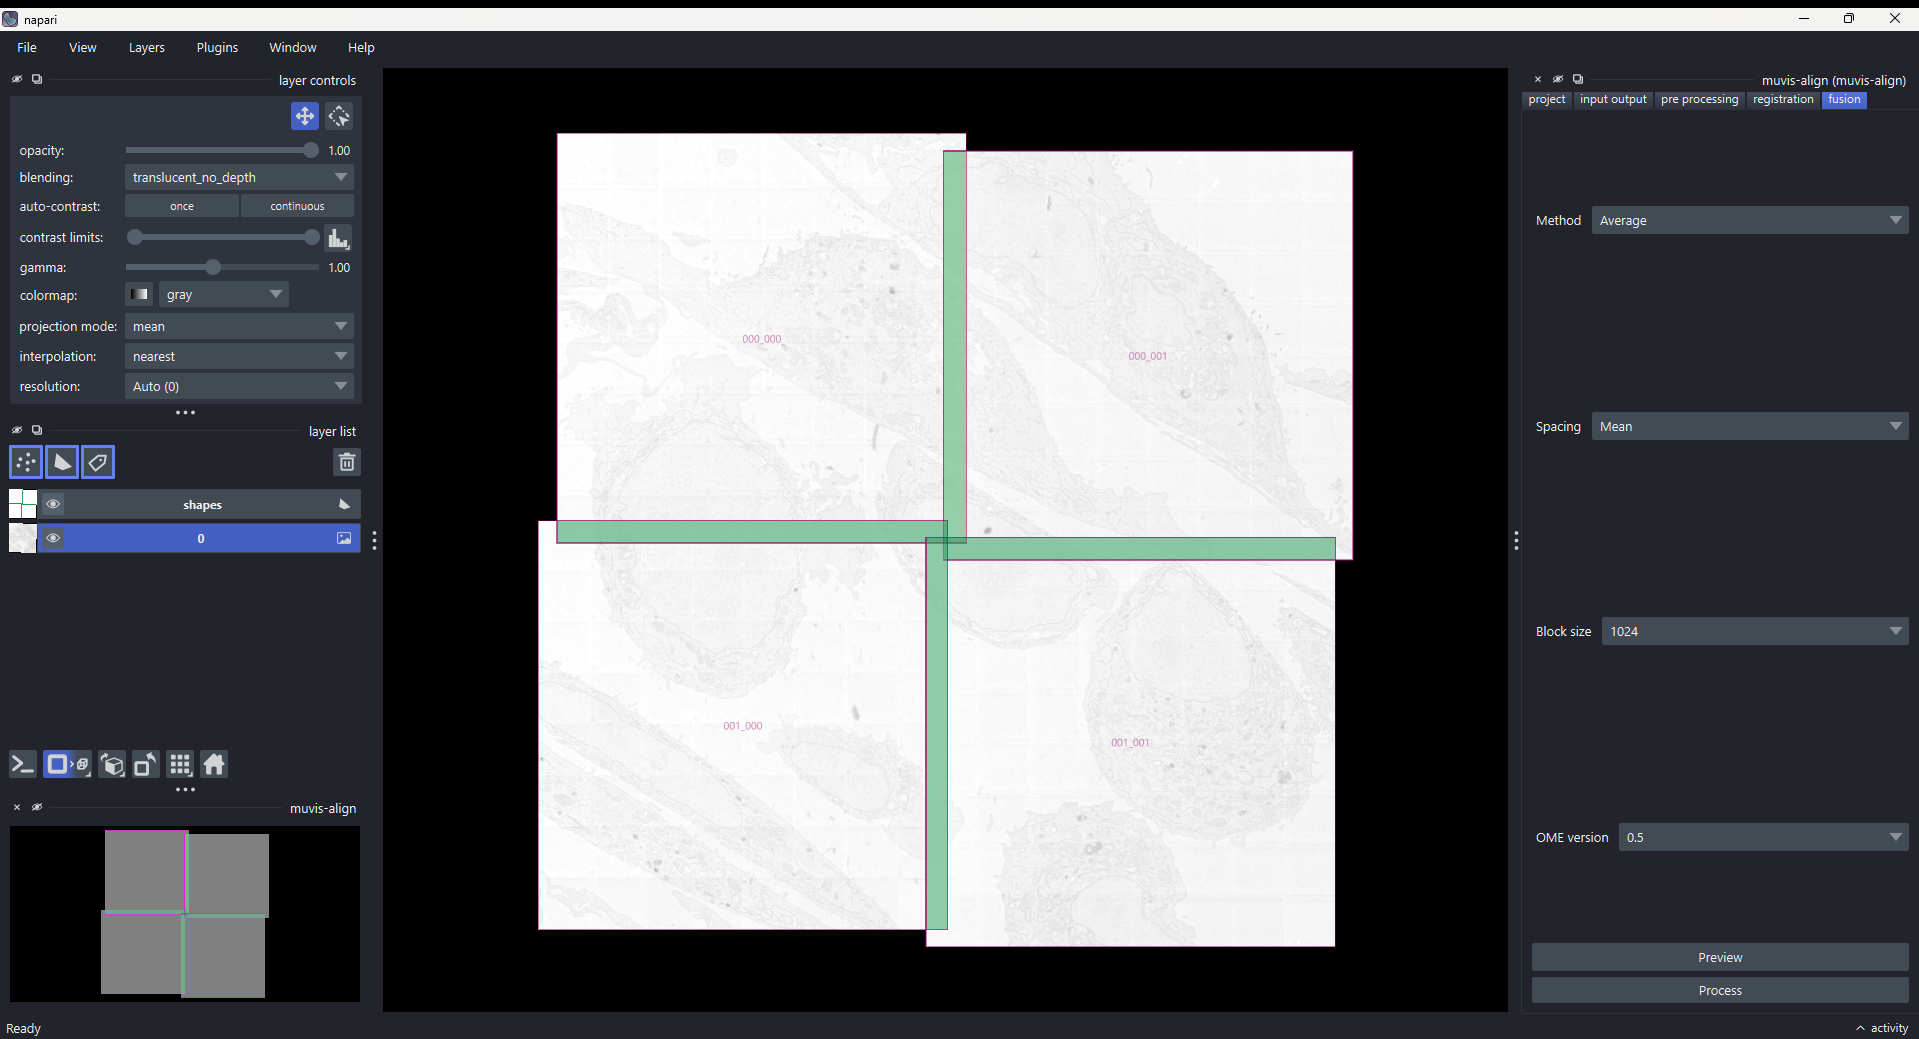
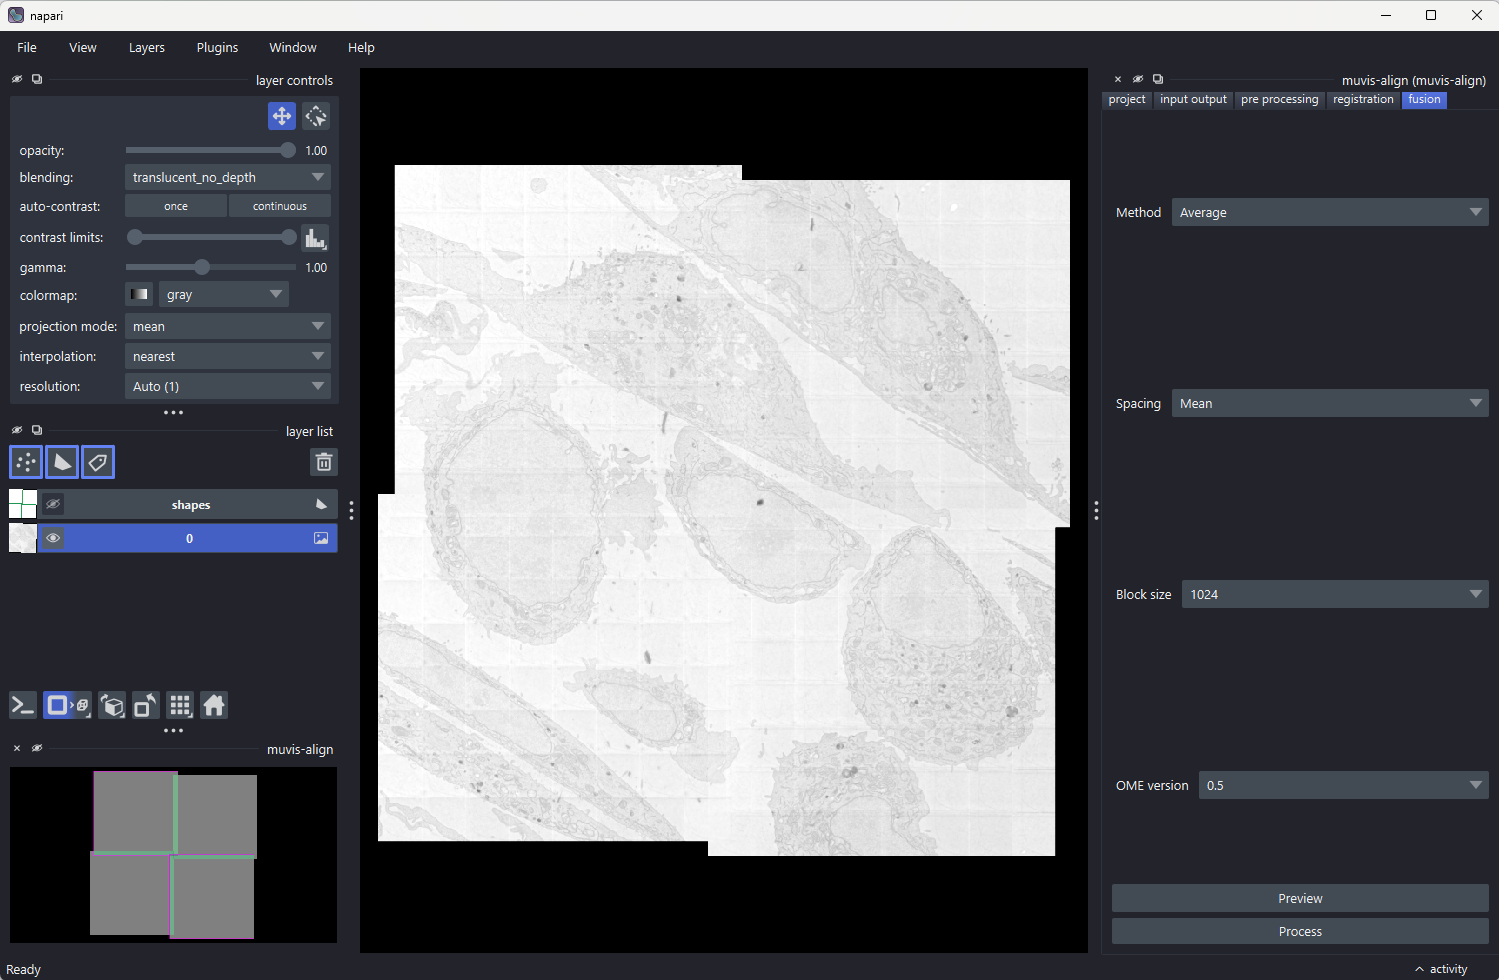
Show the guide's fused result without the overlap outlines
The capture driver can now hide the shapes layers for its window shot, as the
guide's text suggests doing to see the fused image.

diff --git a/testing/napari_ui_capture.py b/testing/napari_ui_capture.py
@@ -59,6 +59,7 @@ def main():
                         help='once the action is done, save the plugin on each tab')
     parser.add_argument('--window', action='store_true', help='once the action is done, save the whole window')
     parser.add_argument('--window-tab', default=None, help='the plugin tab (label) the whole window shows')
+    parser.add_argument('--hide-shapes', action='store_true', help='hide the shapes layers in the window shot')
     parser.add_argument('--pair-offset', type=float, default=0,
                         help='modify_pair_registration: shift the moving image by this much in x (world units)')
     args = parser.parse_args()
@@ -168,6 +169,10 @@ def main():
                                                                       for layer in layers))
 
     def save_window():
+        if args.hide_shapes:
+            for layer in viewer.layers:
+                if isinstance(layer, napari.layers.Shapes):
+                    layer.visible = False
         if args.window_tab:
             widget.setCurrentIndex(widget.tab_labels.index(args.window_tab))
             QApplication.processEvents()
